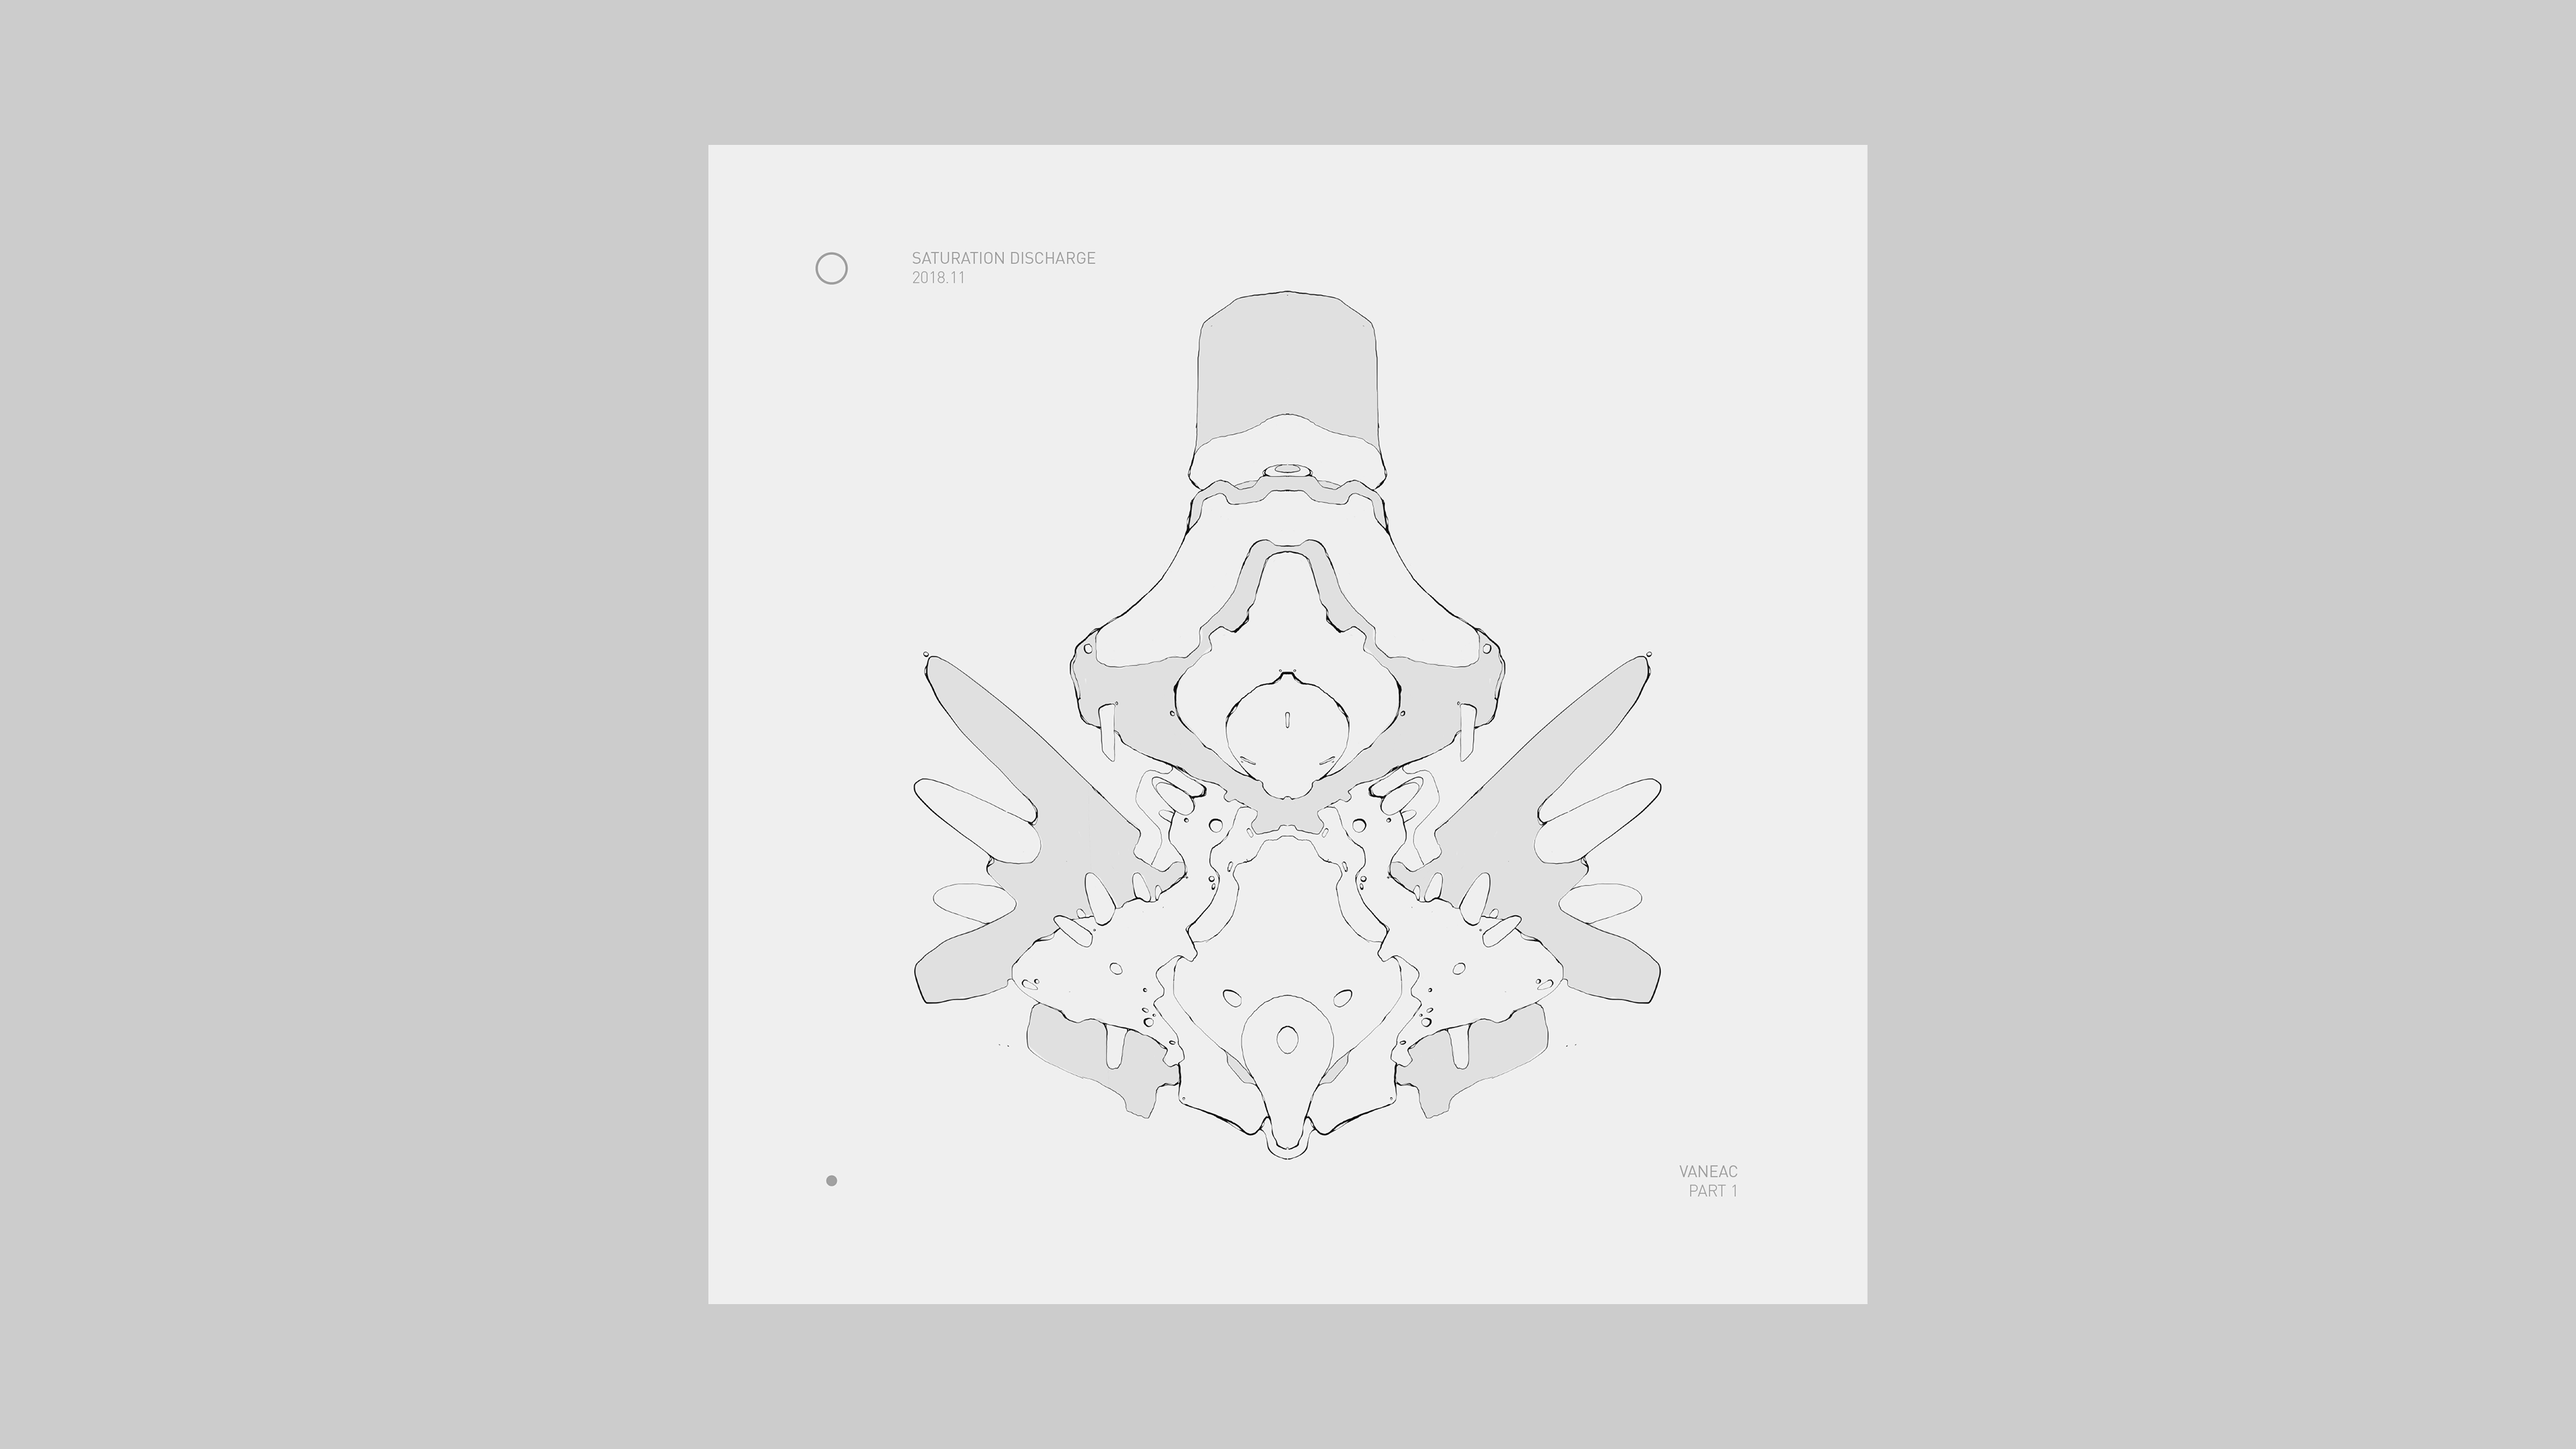
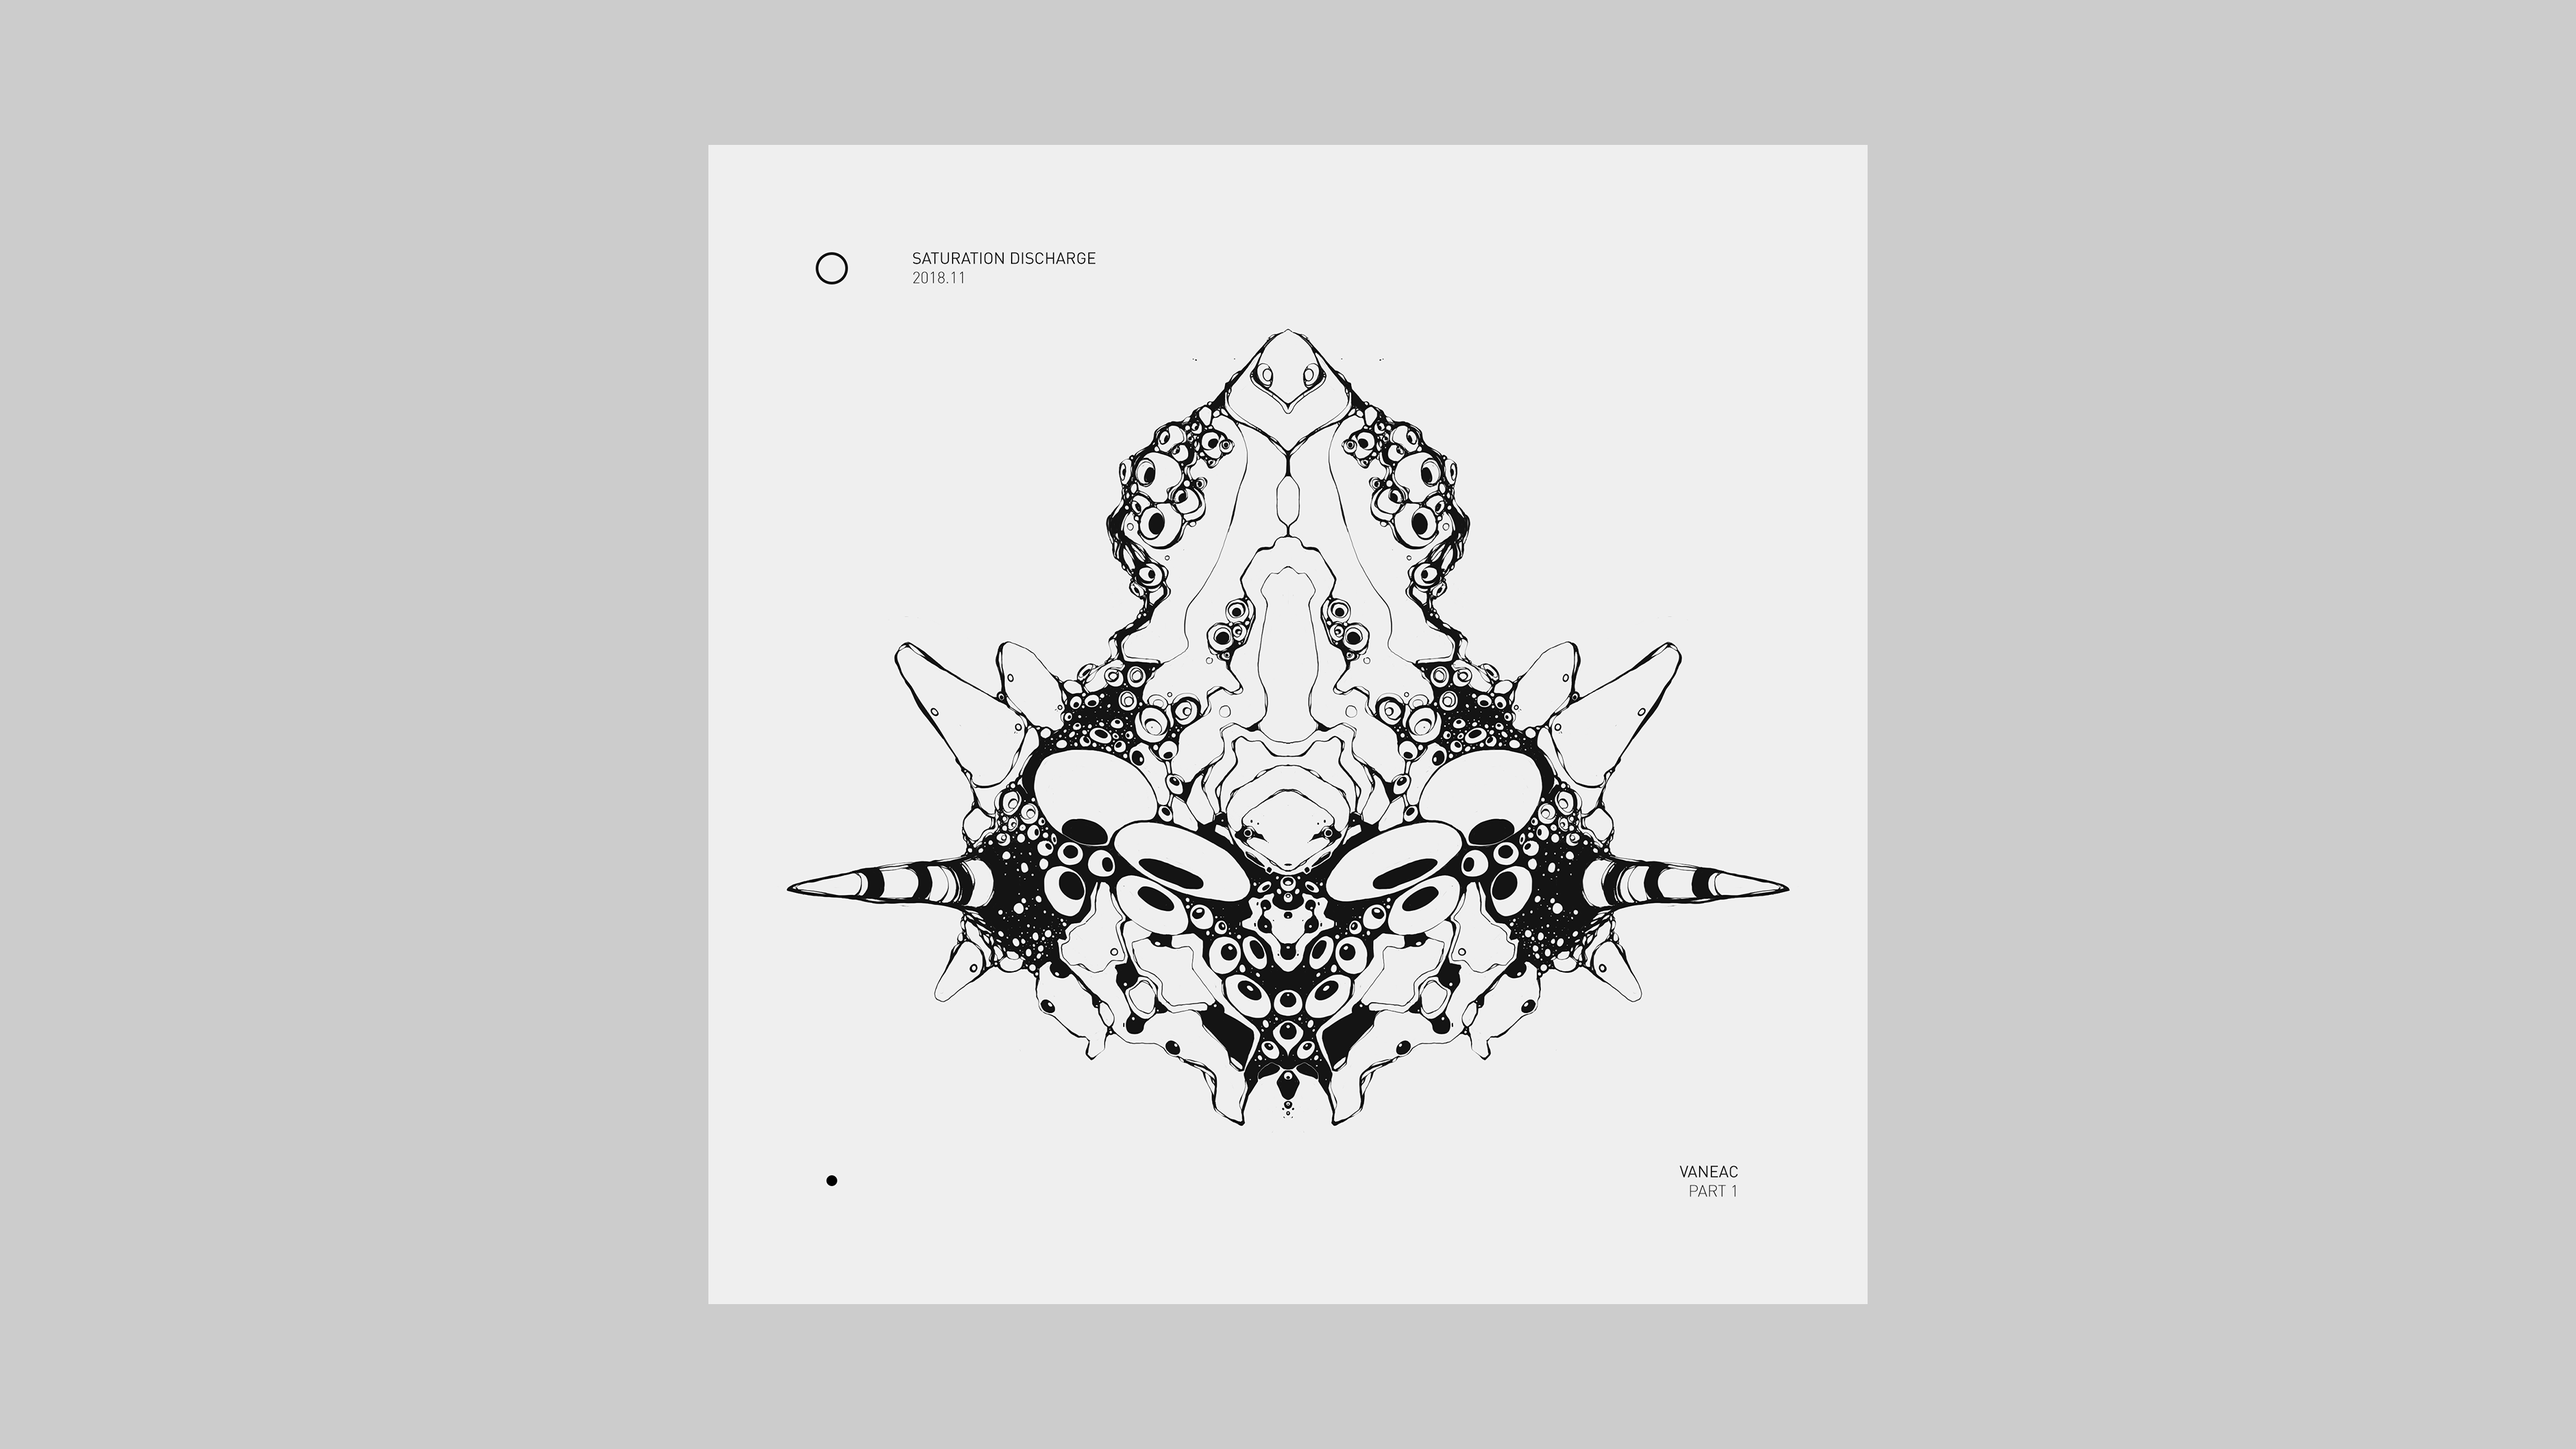
update

Changed region(s): [[0.3125, 0.2481, 0.6875, 0.7755]]

diff --git a/heoliene.html b/heoliene.html
@@ -72,7 +72,7 @@
 
 			<p>
 
-				This page serves to archive and detail Heoliene (formerly Heirolight), an audio project that is focused on fusing themes of contemporary music, electroacoustic music, jazz, pop, and more. Discography below is listed in order of release date.
+				This page serves to archive and detail Heoliene (formerly Heirolight), an audio project that is focused on fusing themes of contemporary music, electroacoustic music, jazz, glitch, and other similar palettes for sound into both chaotic and ambient pieces. Discography below is listed in order of release date.
 
 			</p>
 
@@ -92,28 +92,14 @@
 
 			<p style="text-align: left;">
 
-				<a href="./compositions.2016">COMPOSITIONS, 2016</a> <mark>COMING SOON</mark>
-				<span style="float: right;">COMPILATION</span>
-
-			</p>
-
-			<p style="text-align: left;">
-
-				<a href="./compositions.2017">COMPOSITIONS, 2017</a> <mark>COMING SOON</mark>
-				<span style="float: right;">COMPILATION</span>
-
-			</p>
-
-			<p style="text-align: left;">
-
-				<a href="./compositions.2018">COMPOSITIONS, 2018</a> <mark>COMING SOON</mark>
-				<span style="float: right;">COMPILATION</span>
-
-			</p>
-
-			<p style="text-align: left;">
-
 				<a href="./8044">8044</a>
+				<span style="float: right;">SINGLE</span>
+
+			</p>
+
+			<p style="text-align: left;">
+
+				<a href="./static-dance">STATIC DANCE</a>
 				<span style="float: right;">SINGLE</span>
 
 			</p>
@@ -122,13 +108,6 @@
 
 				<a href="./telehelium">TELEHELIUM</a> <mark>COMING SOON</mark>
 				<span style="float: right;">EP</span>
-
-			</p>
-
-			<p style="text-align: left;">
-
-				<a href="./neon-apophenia">NEON APOPHENIA</a> <mark>COMING SOON</mark>
-				<span style="float: right;">LP</span>
 
 			</p>
 

diff --git a/static-dance.html b/static-dance.html
@@ -7,7 +7,7 @@
 
 		<title>
 
-			8044
+			static dance
 
 		</title>
 
@@ -35,7 +35,7 @@
 
 				#banner-01 {
 
-					background-image: url('../lexicon/media/images/282.png');
+					background-image: url('../lexicon/media/images/285.png');
 					background-size: cover;
 					background-position: center;
 
@@ -43,7 +43,7 @@
 
 			</style>
 
-			<p>> 2019.12 8044 Cover<style type="text/css">#banner-01 {color: #efefef;}</style></p>
+			<p>> 2020.01 Static Dance Cover<style type="text/css">#banner-01 {color: #efefef;}</style></p>
 
 			<hr>
 
@@ -64,7 +64,7 @@
 
 			<p>
 
-				<a href="./heoliene">HEOLIENE</a> . 8044 <mark>2019.12</mark>
+				<a href="./heoliene">HEOLIENE</a> . STATIC DANCE <mark>2020.02</mark>
 
 			</p>
 
@@ -72,7 +72,7 @@
 
 			<p>
 
-				8044 is a brief interlude, composed over the course of two nights near the end of 2019 for a hometest. The single is the first in the "Audio Hygiene" series of releases. You can download the single <a href="https://deuveir.bandcamp.com/album/8044">here</a>.
+				Static Dance is a B-side from heoliene's first EP, <a href="./telehelium">"Telehelium"</a>. You can download the single <a href="https://deuveir.bandcamp.com/album/static-dance">here</a>.
 
 			</p>
 
@@ -97,10 +97,7 @@
 
 					<ul>
 
-						<li>01. oppaque 124 ― 180</li>
-						<li>02. oppaque 180 ― 214</li>
-						<li>03. oppaque 214 ― 268</li>
-						<li>04. oppaque 268 ― 358</li>
+						<li>01. Static Dance (Instrumental Mix)</li>
 
 					</ul>
 
